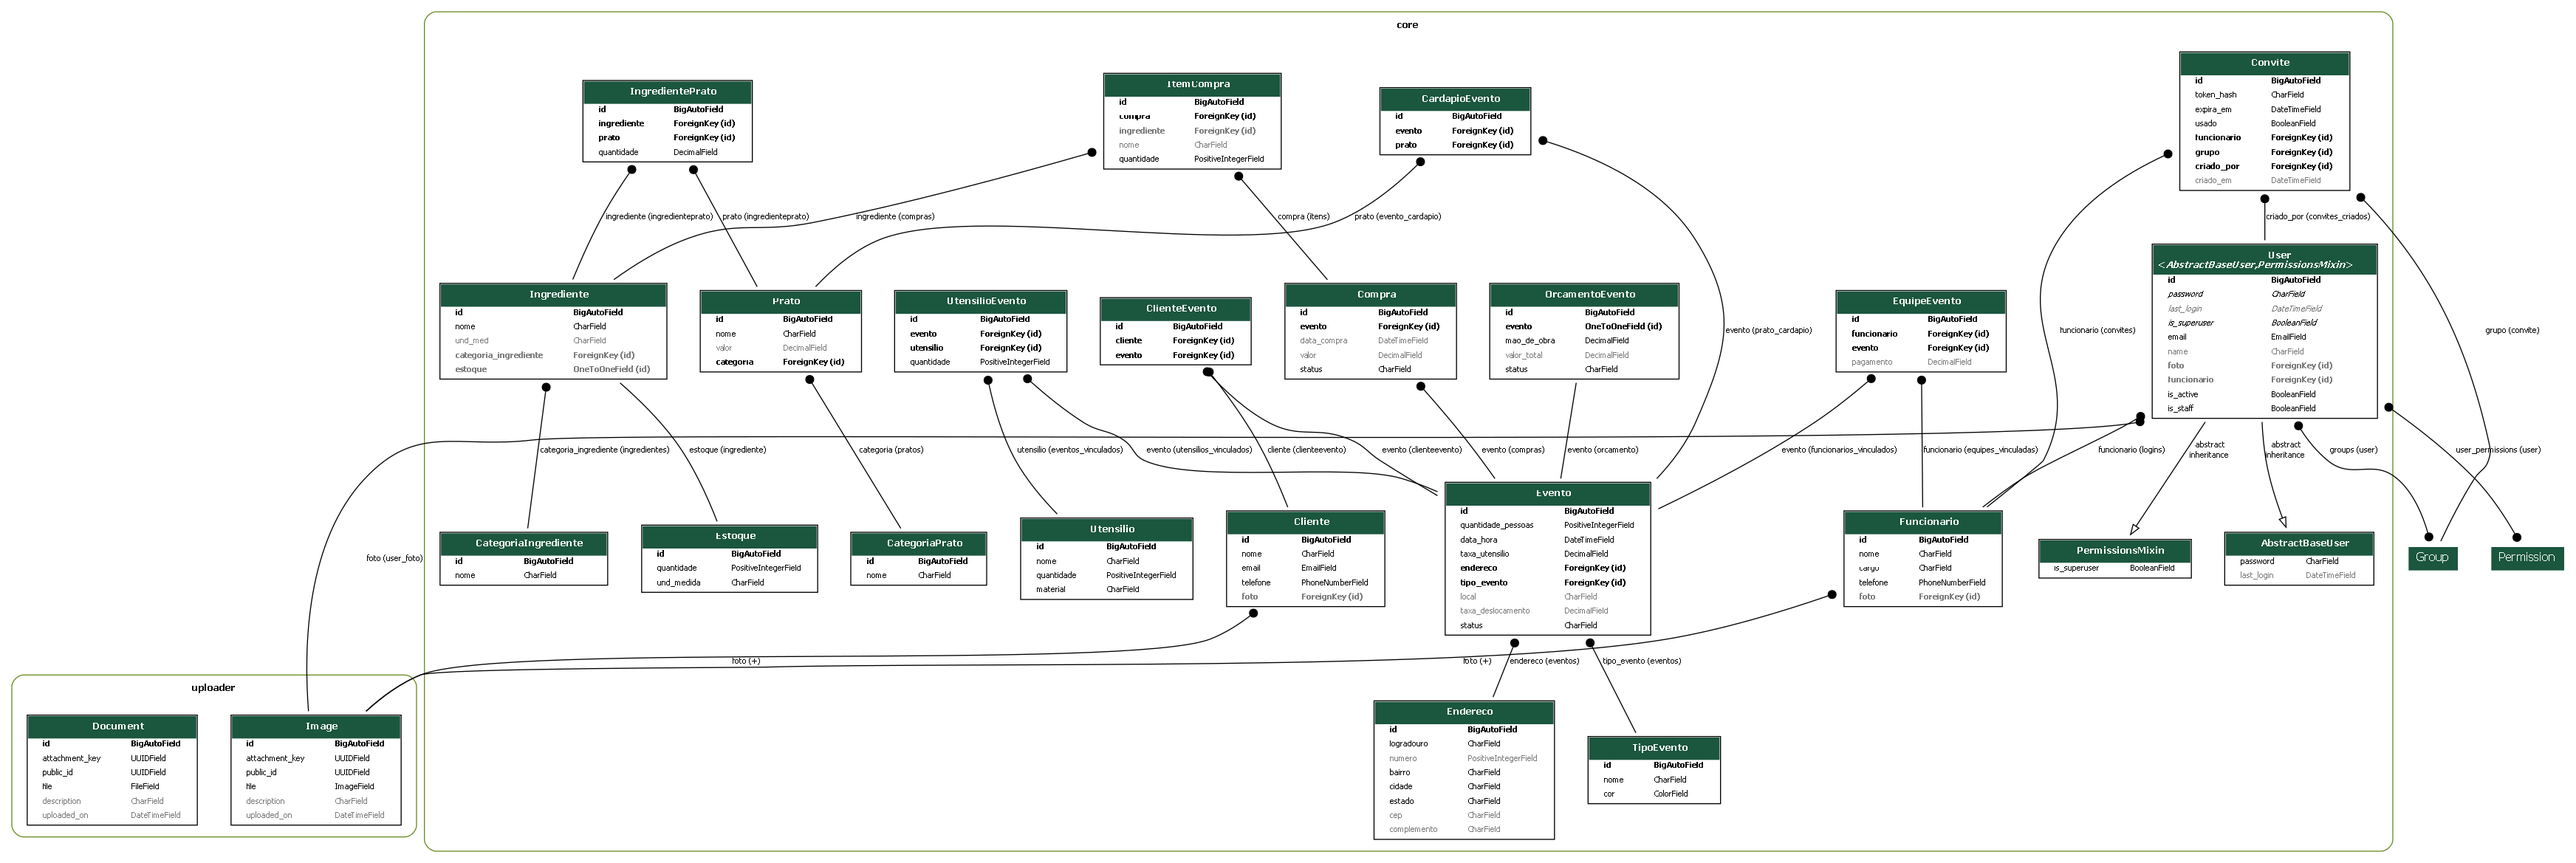
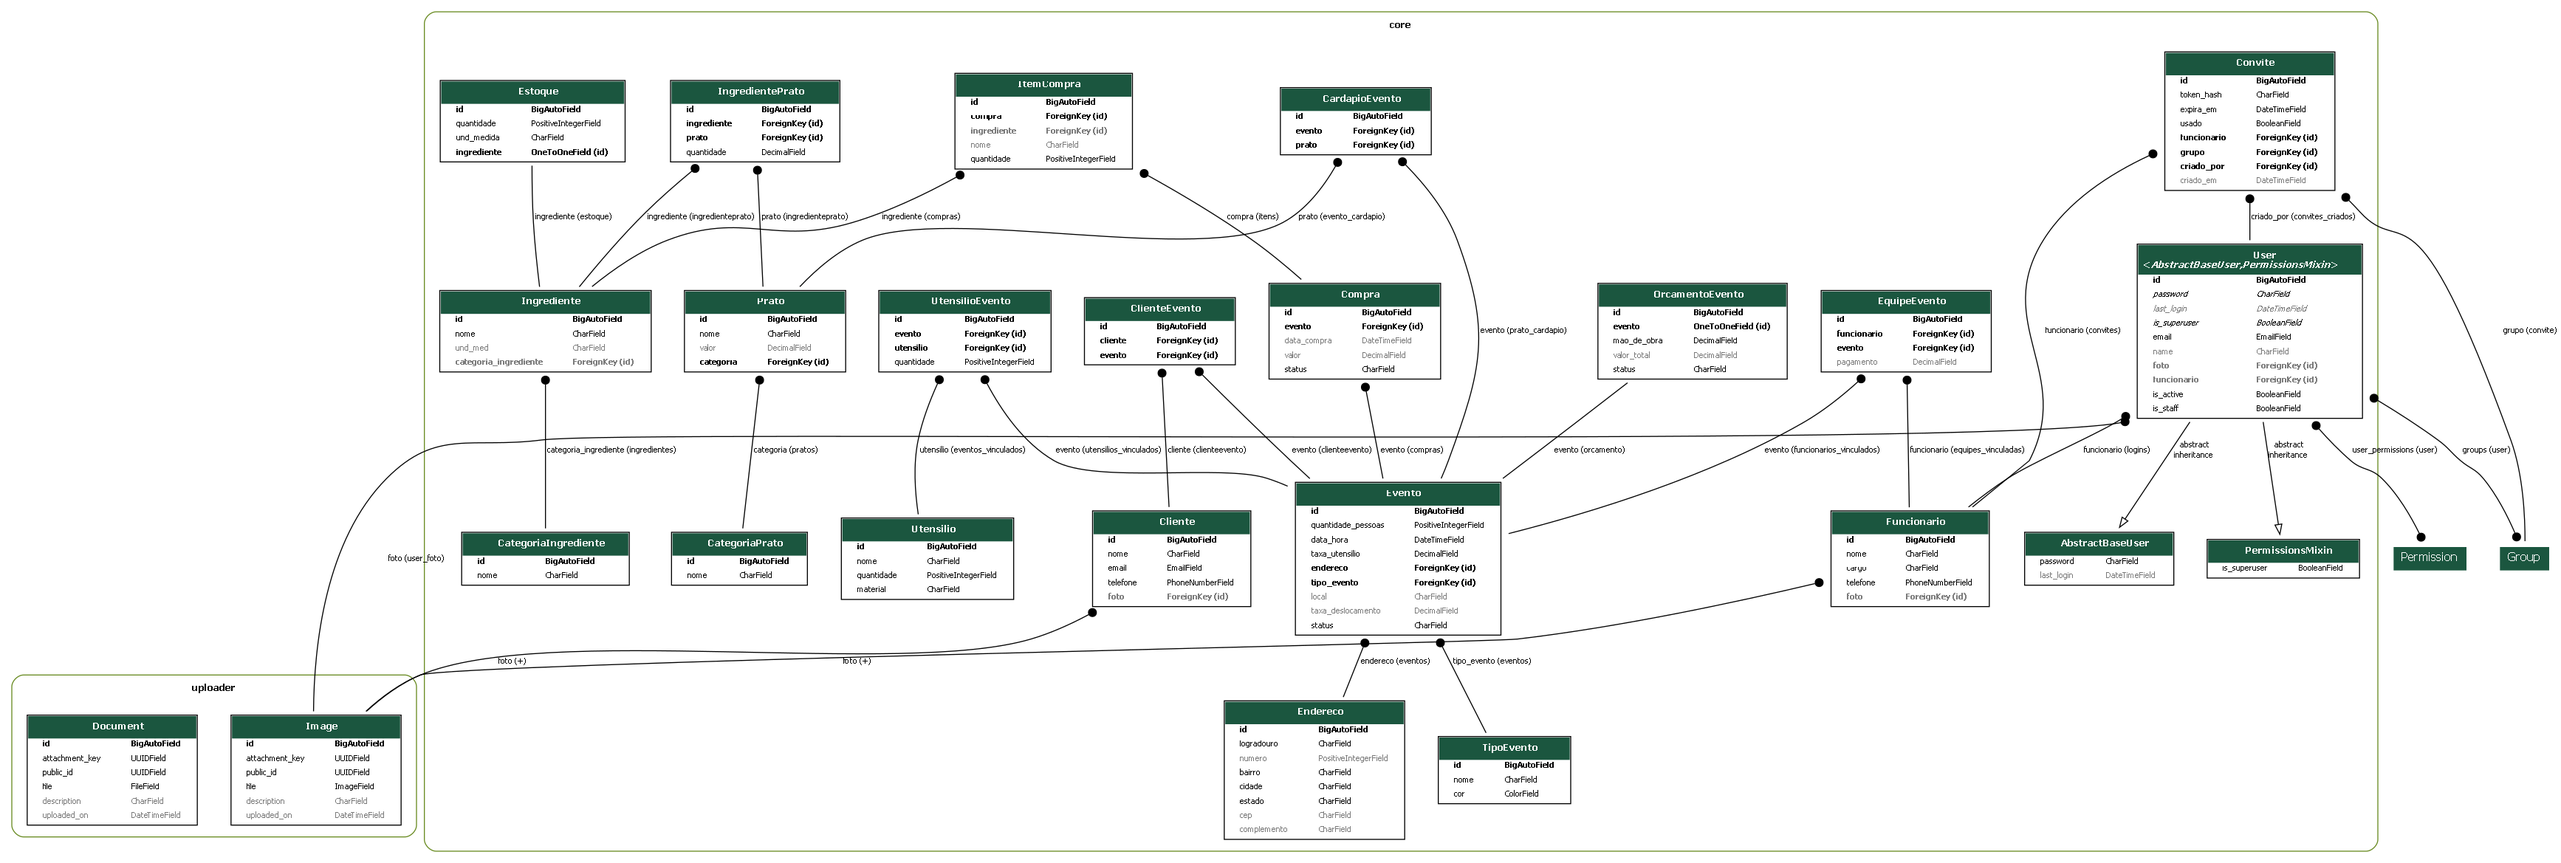
refactor: update default value for ingrediente field in Estoque model

diff --git a/core/migrations/0004_remove_ingrediente_estoque_estoque_ingrediente.py b/core/migrations/0004_remove_ingrediente_estoque_estoque_ingrediente.py
@@ -18,7 +18,7 @@ class Migration(migrations.Migration):
         migrations.AddField(
             model_name='estoque',
             name='ingrediente',
-            field=models.OneToOneField(default='sem ingrediente', on_delete=django.db.models.deletion.CASCADE, related_name='estoque', to='core.ingrediente'),
+            field=models.OneToOneField(default=None, on_delete=django.db.models.deletion.CASCADE, related_name='estoque', to='core.ingrediente'),
             preserve_default=False,
         ),
     ]
